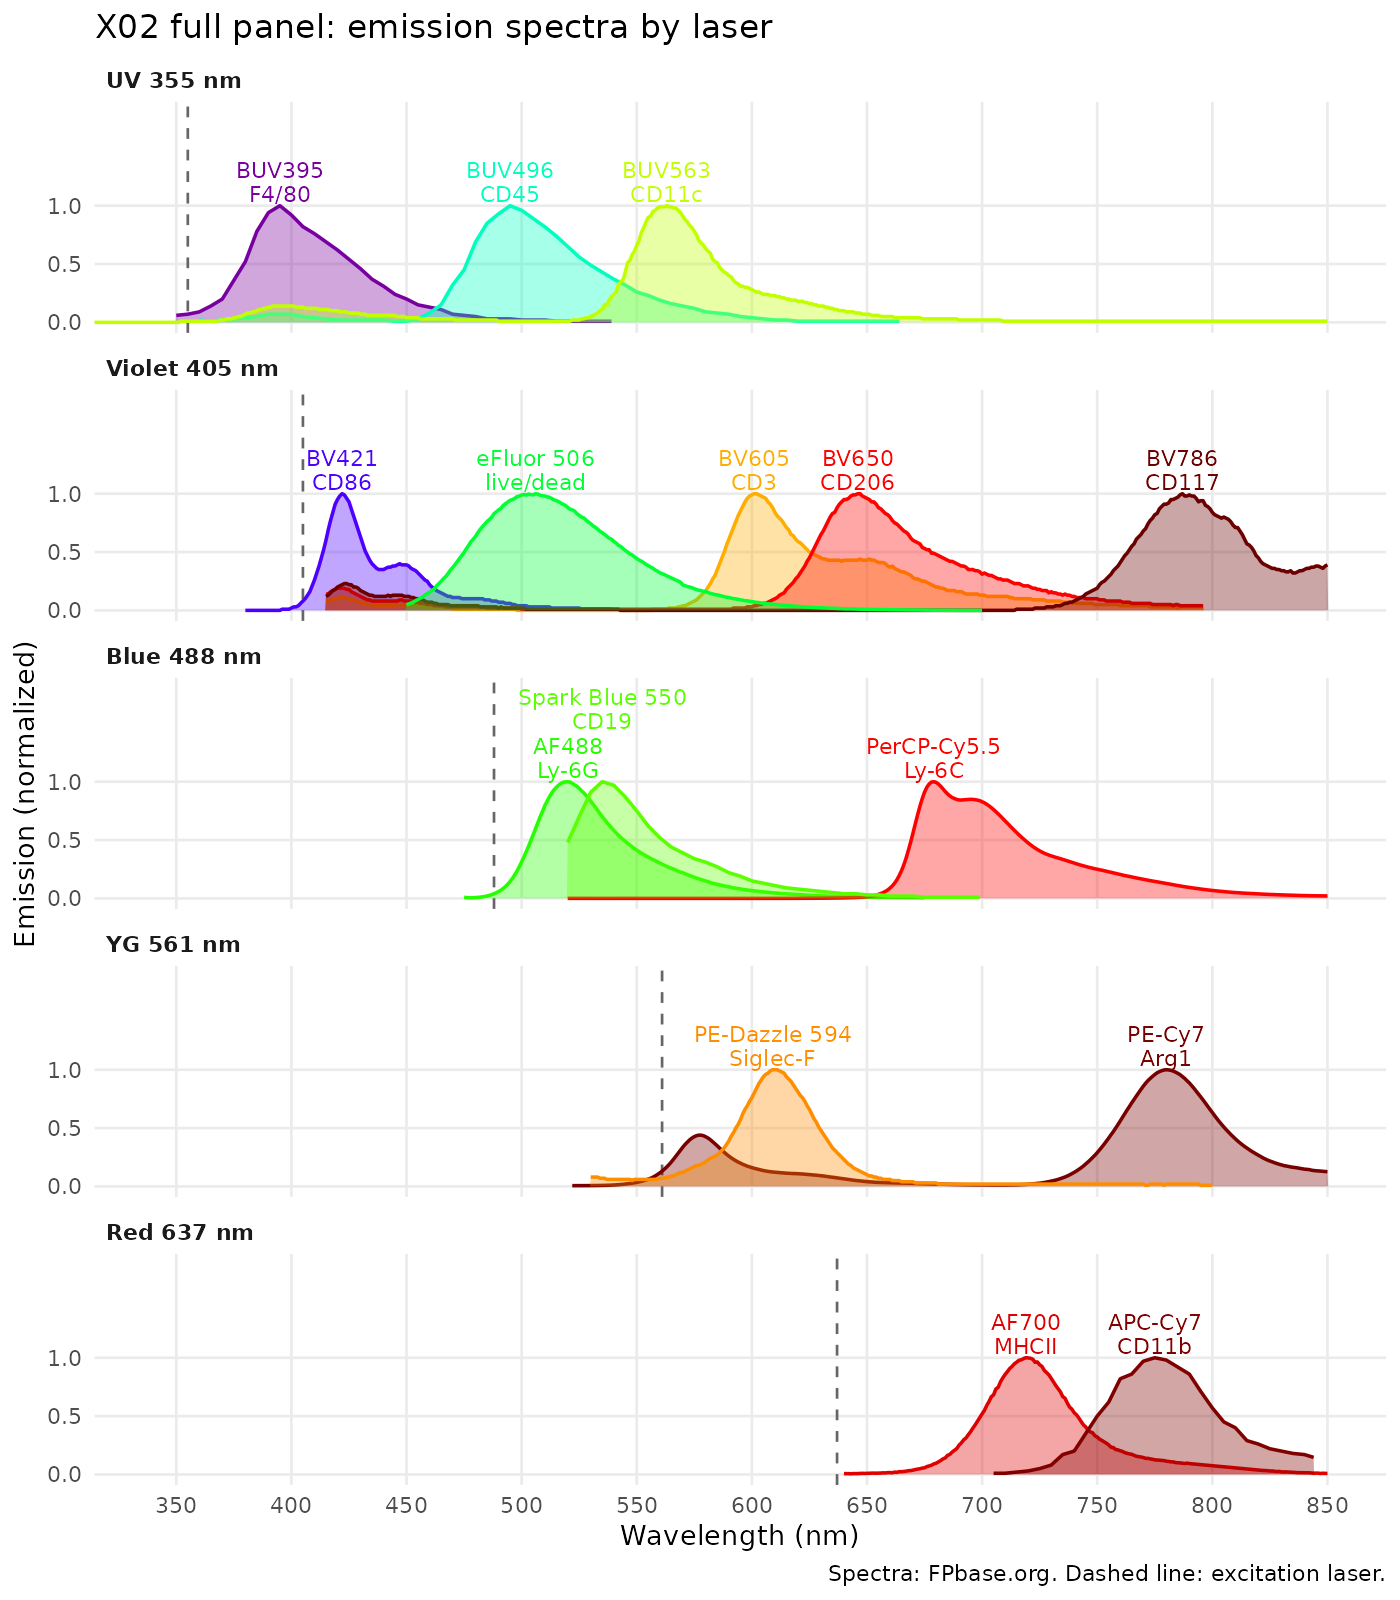
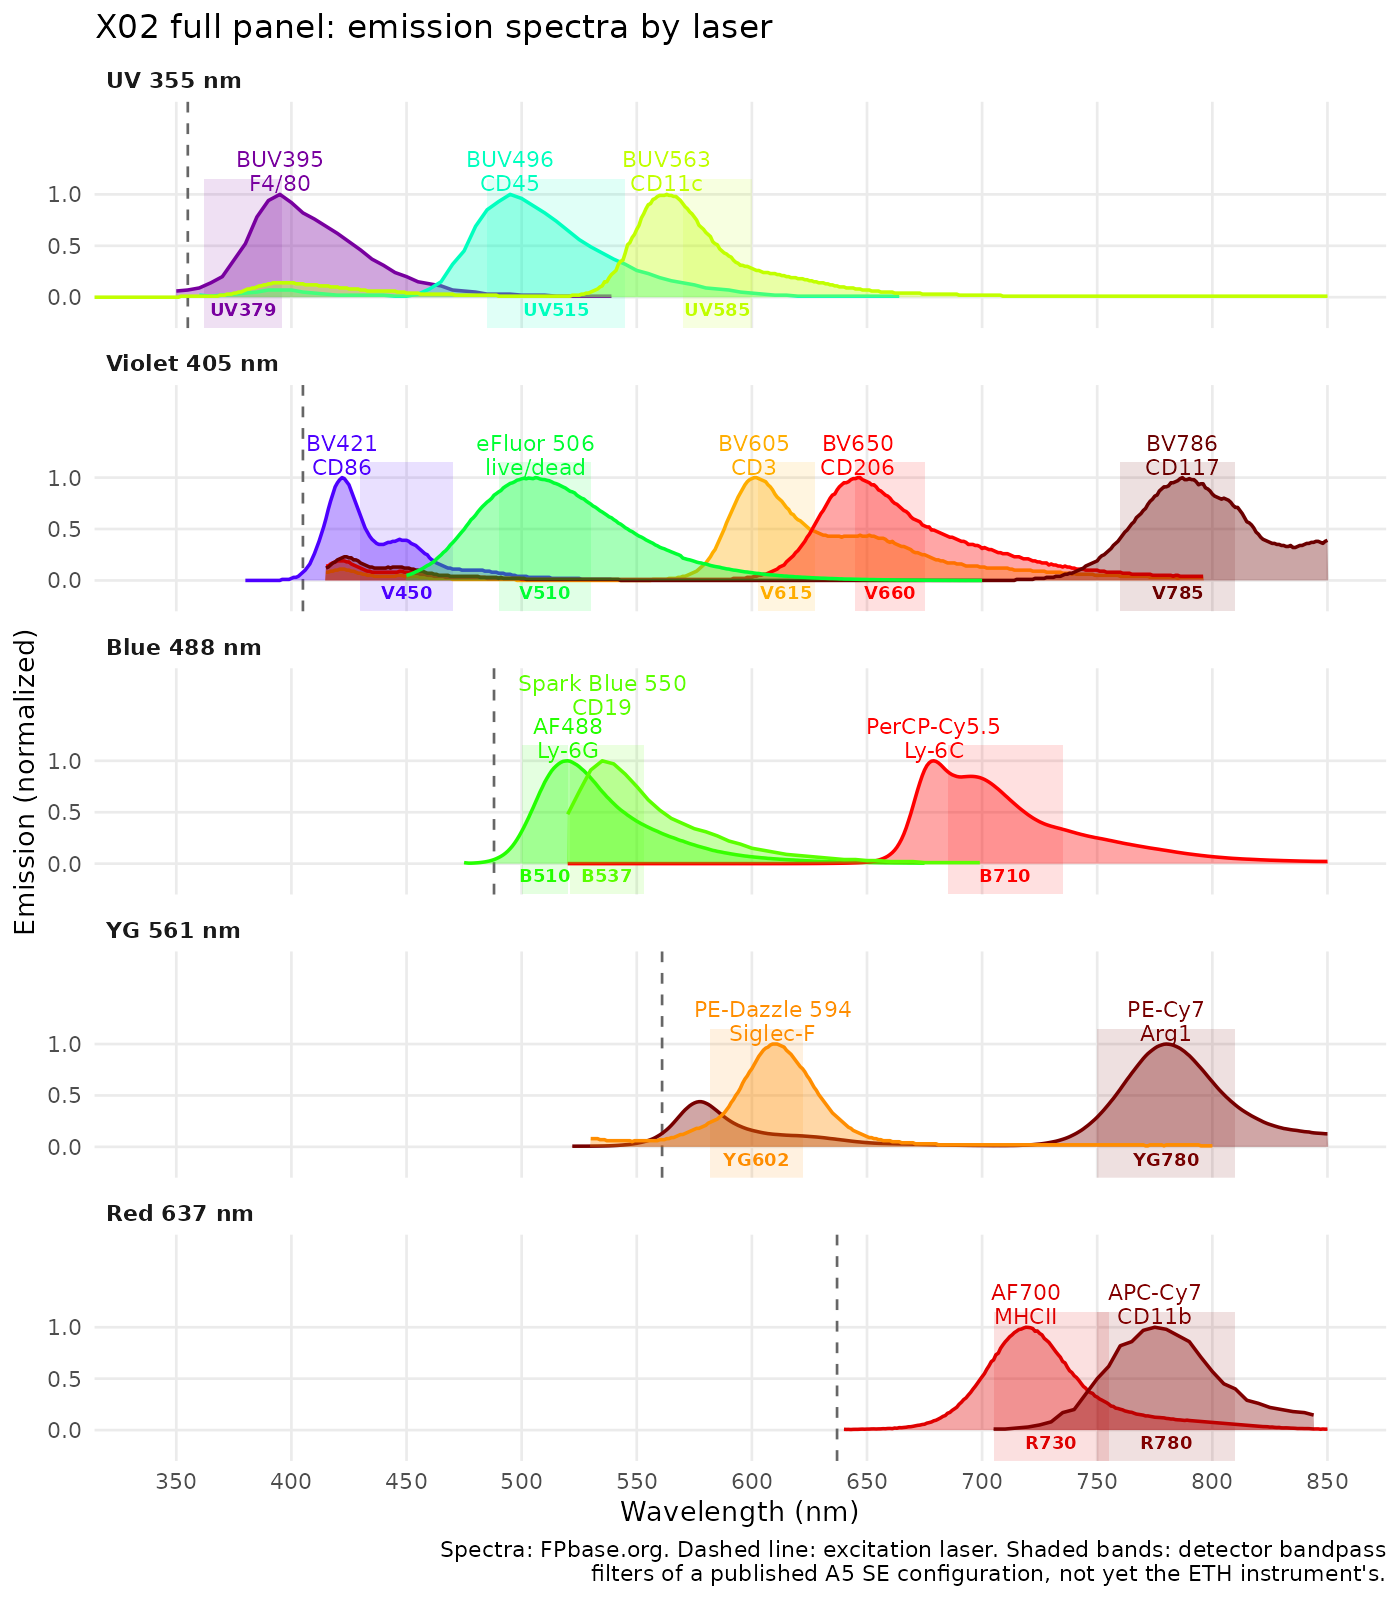
Spectra: detector filter bands and theoretical spillover table
Bandpass filters from a published FACSymphony A5 SE configuration (Cornell BRC)
shaded under the emission curves until the ETH sheet is in hand; the script
prints how much of each dye falls into the other detectors of its laser. C3/X02
to-verify notes: V585, V655 and PE-Texas Red are not on that configuration, and
AF488 puts more light into B537 than into B510.

diff --git a/protocols/X02_peritoneal_cells_flow.md b/protocols/X02_peritoneal_cells_flow.md
@@ -78,9 +78,14 @@ detector stays empty.
 
 > [!IMPORTANT]
 > **To verify:** check every detector name against the facility's configuration of
-> the A5 SE (BV605 in particular: the lab sheet says V585, but BV605 is normally
-> read near 605 nm), and confirm that it resolves AF488 (Ly-6G) and Spark Blue 550
-> (CD19) in separate detectors before Ly-6G is ordered. Titrate Ly-6G on cells with
+> the A5 SE. The published A5 SE configuration used for the figure has no V585,
+> V655 or "PE-Texas Red" detector: there BV605 goes to V615 (615/25) or V595,
+> BV650 to V660 (660/30) and PE-Dazzle 594 to YG602 (602/40). Before Ly-6G is
+> ordered, look hard at AF488 against Spark Blue 550: with B510 at 510/20 and B537
+> at 537/32, more AF488 light falls into B537 than into its own detector
+> (theoretical, from the spectra; `code/flow/panel_spectra.R` prints the table).
+> They mark different cells and both serve as exclusion gates, so it can work, but
+> a Ly-6G dye on another laser may be the cleaner choice. Titrate Ly-6G on cells with
 > neutrophils (pack sizes 127625, 25 µg, or 127626, 100 µg); CD86, CD206 and Arg1
 > are titrated for C3.
 

diff --git a/protocols/C3_flow_cytometry.md b/protocols/C3_flow_cytometry.md
@@ -63,7 +63,9 @@ Spectra from [FPbase](https://www.fpbase.org), plotted by
 
 > [!IMPORTANT]
 > **To verify:** check every detector name against the facility's configuration of
-> the A5 SE. Titrate CD86, CD206 and Arg1 before the course by stain index on a
+> the A5 SE. A published A5 SE configuration (Cornell BRC, used for the shaded
+> filter bands in the figure) has no V655; BV650 is read in V660 (660/30) there.
+> Titrate CD86, CD206 and Arg1 before the course by stain index on a
 > positive and a negative population (CD206 and Arg1 after fixation and
 > permeabilization); the vendor suggests 0.5 µg per test for Arg1. CD86 GL-1 and
 > CD206 C068C2 have been used on J774A.1 by flow (J Neuroinflammation 2020,
